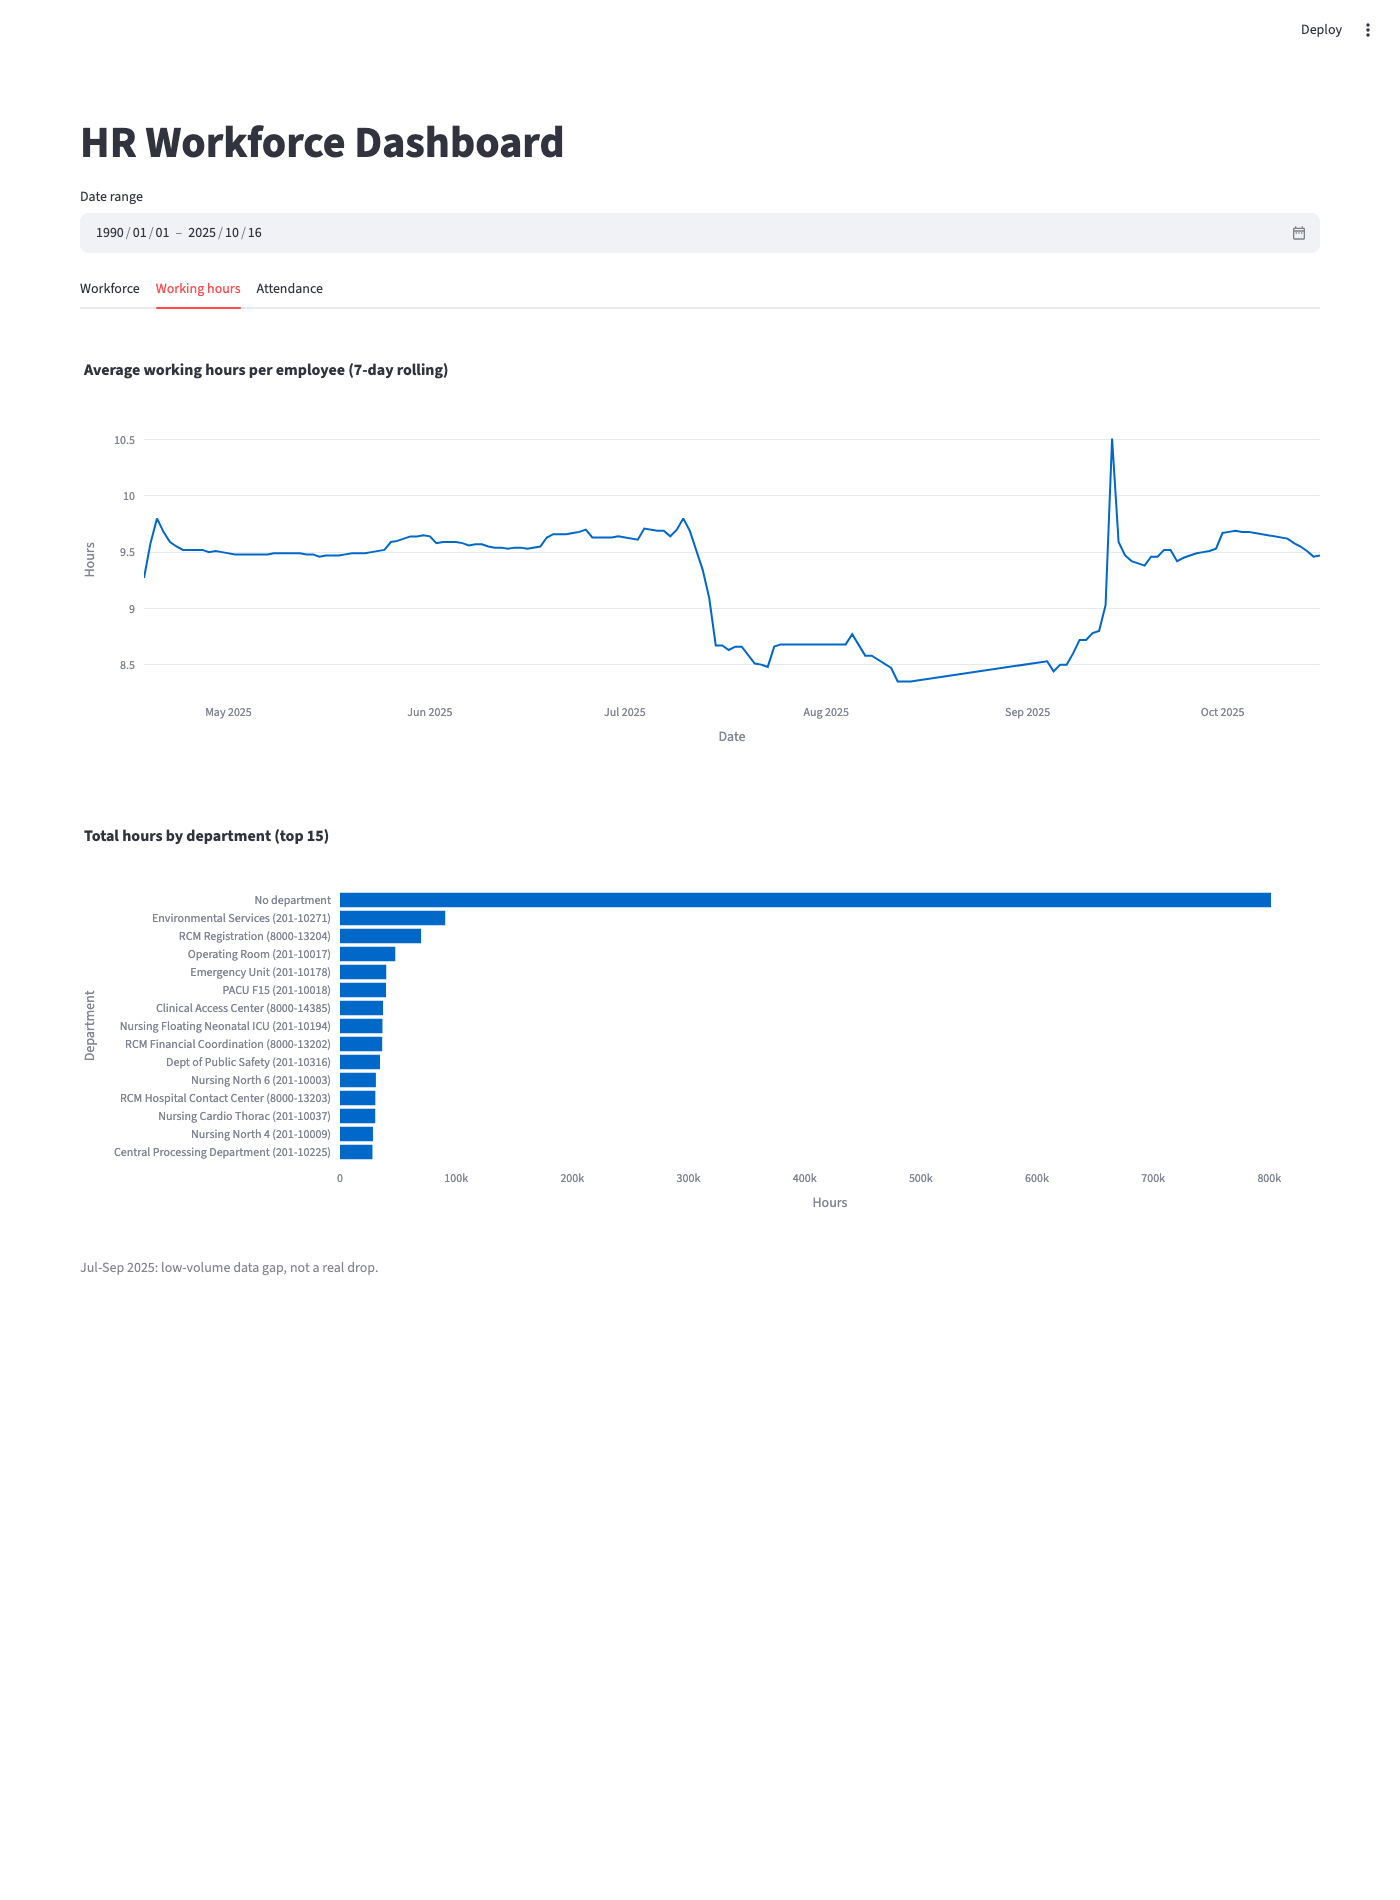
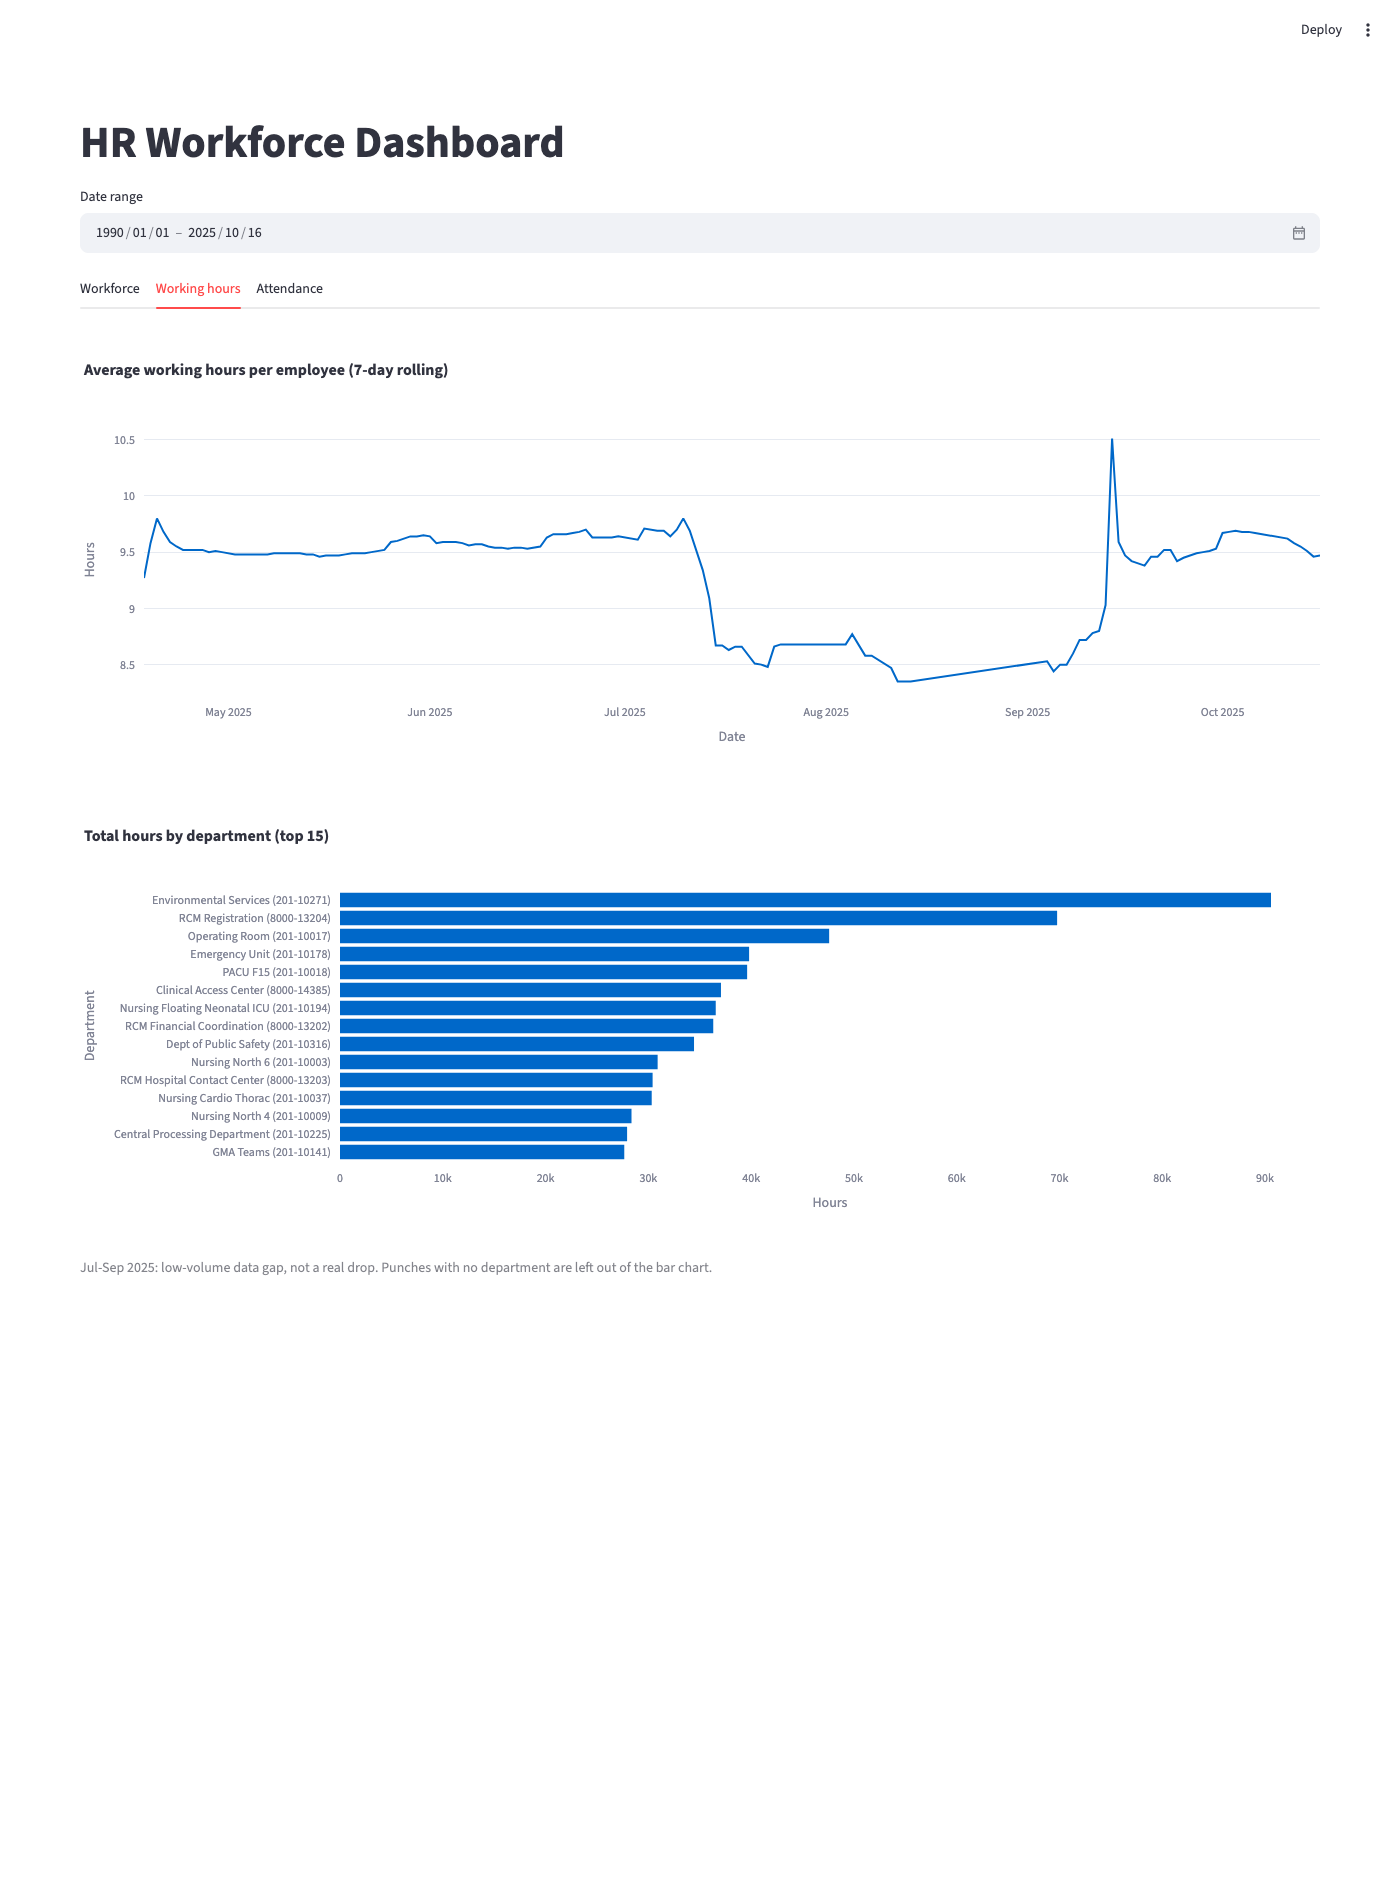
Leave punches with no department out of the dashboard department charts

Changed region(s): [[0.0921, 0.4658, 0.7679, 0.6211]]

diff --git a/dashboard/app.py b/dashboard/app.py
@@ -38,6 +38,10 @@ headcount = headcount[headcount["as_of_date"].between(start, end)]
 turnover = turnover[turnover["month"].between(start, end)]
 hours = hours[hours["work_date"].between(start, end)]
 
+# Too big to compare with real departments
+dept_hours = dept_hours[dept_hours["department"] != "No department"]
+attendance = attendance[attendance["department"] != "No department"]
+
 workforce_tab, hours_tab, attendance_tab = st.tabs(
     ["Workforce", "Working hours", "Attendance"]
 )
@@ -67,7 +71,8 @@ with hours_tab:
         orientation="h", title="Total hours by department (top 15)",
         labels={"total_hours": "Hours", "department": "Department"},
     ).update_yaxes(categoryorder="total ascending"))
-    st.caption("Jul-Sep 2025: low-volume data gap, not a real drop.")
+    st.caption("Jul-Sep 2025: low-volume data gap, not a real drop. "
+               "Punches with no department are left out of the bar chart.")
 
 with attendance_tab:
     st.plotly_chart(px.bar(
@@ -78,4 +83,5 @@ with attendance_tab:
               "(top 15 by scheduled shifts)",
         labels={"department": "Department", "value": "Shifts", "variable": "Measure"},
     ))
-    st.caption("Scheduled shifts only (~42% of punches).")
+    st.caption("Scheduled shifts only (~42% of punches). "
+               "Shifts with no department are left out.")
